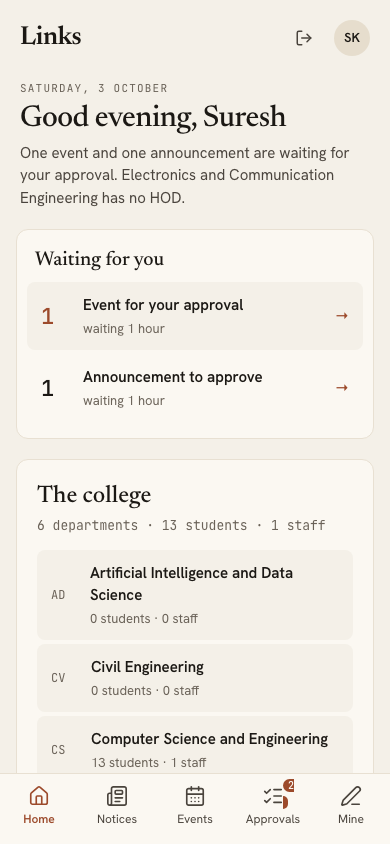
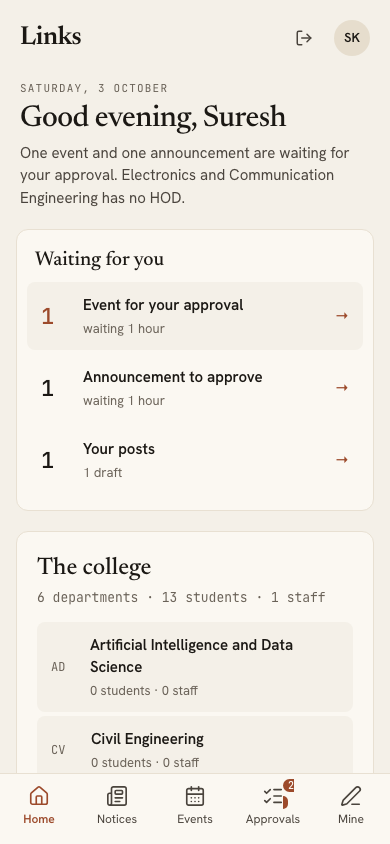
feat(client): show the person's own drafts on role Homes when they need them
Moving the HOD, principal and admin to their own Homes dropped today's
"Your announcements" panel. These roles mostly publish directly, so a full
panel isn't worth the space, but a forgotten draft or a post sent back with
a note still needs them: a "Your posts" row now joins Waiting for you (or To
do) only then, linking to My posts. The principal's side column also shows
what's coming up in the college again. Placement drives stay on the
Placement page, the placement office's job.

Claude-Session: https://claude.ai/code/session_01RGz1dUA7VMiYEDGyN4YNTK

diff --git a/client/src/features/home/components/RoleHomes.tsx b/client/src/features/home/components/RoleHomes.tsx
@@ -5,13 +5,15 @@ import { cn } from '@/lib/utils'
 import { buttonStyles } from '../../announcements/buttons'
 import { waited } from '../../announcements/status'
 import type { CollegeDepartment, Dashboard, DepartmentPanel, Lists } from '../api'
-import { summaryLine, type HomeKind } from '../roleHome'
+import { summaryLine, yourPosts, type HomeKind } from '../roleHome'
 
 type Props = {
   kind: Exclude<HomeKind, 'everyone'>
   data: Dashboard
   greeting: ReactNode
   notices: ReactNode
+  // The principal's side column also shows what's coming up in the college.
+  comingUp?: ReactNode
   now: Date
 }
 
@@ -19,7 +21,7 @@ type Props = {
 // their normal job (the "can vs normally does" principle): an HOD runs a
 // Department, the principal oversees the college, an admin keeps people and
 // lists in order. Latest notices sit beside it.
-export function RoleHome({ kind, data, greeting, notices, now }: Props) {
+export function RoleHome({ kind, data, greeting, notices, comingUp, now }: Props) {
   return (
     <>
       <header className="flex flex-col gap-3 px-1 lg:flex-row lg:items-end lg:justify-between lg:px-0">
@@ -48,7 +50,10 @@ export function RoleHome({ kind, data, greeting, notices, now }: Props) {
                 <div className="max-lg:order-first max-lg:-mt-0">
                   <WaitingForYou rows={principalWaiting(data, now)} />
                 </div>
-                <div className="max-lg:order-last">{notices}</div>
+                <div className="flex flex-col gap-5 max-lg:order-last lg:gap-6">
+                  {notices}
+                  {comingUp}
+                </div>
               </div>
             </Side>
           </>
@@ -124,6 +129,12 @@ function requestsRow(data: Dashboard, now: Date, to: string): WaitingRow[] {
   ]
 }
 
+// postsRow is the person's own drafts and posts sent back, when there are any.
+function postsRow(data: Dashboard): WaitingRow[] {
+  const posts = yourPosts(data.my_announcements)
+  return posts ? [{ count: posts.count, title: 'Your posts', detail: posts.detail, to: '/mine', action: 'Open' }] : []
+}
+
 function hodWaiting(data: Dashboard, now: Date): WaitingRow[] {
   const rows = requestsRow(data, now, '/approvals/access')
   const a = data.approvals
@@ -136,7 +147,7 @@ function hodWaiting(data: Dashboard, now: Date): WaitingRow[] {
       to: '/approvals',
     })
   }
-  return rows
+  return [...rows, ...postsRow(data)]
 }
 
 function principalWaiting(data: Dashboard, now: Date): WaitingRow[] {
@@ -159,7 +170,7 @@ function principalWaiting(data: Dashboard, now: Date): WaitingRow[] {
       to: '/approvals',
     })
   }
-  return rows
+  return [...rows, ...postsRow(data)]
 }
 
 function WaitingForYou({ rows }: { rows: WaitingRow[] }) {
@@ -385,6 +396,7 @@ function ToDo({ data, now }: { data: Dashboard; now: Date }) {
   if (queued > 0) {
     rows.push({ count: queued, title: 'In the approval queue', detail: "usually the principal's to approve", to: '/approvals', action: 'Open' })
   }
+  rows.push(...postsRow(data))
 
   return (
     <CountSection id="todo-h" title="To do" rows={rows} empty="Nothing needs you. Every department has an HOD and nobody is waiting to get in." />

diff --git a/client/src/features/home/roleHome.test.ts b/client/src/features/home/roleHome.test.ts
@@ -1,6 +1,6 @@
 import { describe, expect, it } from 'vitest'
 import type { Dashboard } from './api'
-import { homeKind, summaryLine } from './roleHome'
+import { homeKind, summaryLine, yourPosts } from './roleHome'
 
 const base: Dashboard = {
   user: { full_name: 'Asha Rao', roles: ['hod'], department: { id: 'd1', code: 'CS', name: 'Computer Science' } },
@@ -71,5 +71,19 @@ describe('summaryLine', () => {
 
   it('tells an admin who is waiting to get in', () => {
     expect(summaryLine('admin', { ...base, access_requests: { pending_count: 3, oldest_requested_at: null } })).toBe('Three people are waiting to get in.')
+  })
+})
+
+describe('yourPosts', () => {
+  const mine = (draft: number, rejected: number, edits = 0) => ({ draft, pending: 3, rejected, edits_waiting: edits })
+
+  it('shows what needs the person: drafts and posts sent back', () => {
+    expect(yourPosts(mine(1, 1))).toEqual({ count: 2, detail: '1 draft, 1 sent back with a note' })
+    expect(yourPosts(mine(2, 0))).toEqual({ count: 2, detail: '2 drafts' })
+  })
+
+  it('stays hidden when nothing needs them, even with posts waiting on others', () => {
+    expect(yourPosts(mine(0, 0, 2))).toBeNull()
+    expect(yourPosts(undefined)).toBeNull()
   })
 })

diff --git a/client/src/features/home/roleHome.ts b/client/src/features/home/roleHome.ts
@@ -64,3 +64,16 @@ export function summaryLine(kind: HomeKind, data: Dashboard): string {
 
   return ''
 }
+
+// yourPosts is the person's own posts that need them: drafts not yet sent
+// and posts sent back with a note. Posts waiting on someone else don't
+// count, so most days it is null and the row stays hidden.
+export function yourPosts(mine: Dashboard['my_announcements']): { count: number; detail: string } | null {
+  if (!mine) return null
+  const count = mine.draft + mine.rejected
+  if (count === 0) return null
+  const parts: string[] = []
+  if (mine.draft > 0) parts.push(`${mine.draft} ${mine.draft === 1 ? 'draft' : 'drafts'}`)
+  if (mine.rejected > 0) parts.push(`${mine.rejected} sent back with a note`)
+  return { count, detail: parts.join(', ') }
+}

diff --git a/client/src/features/home/pages/Home.tsx b/client/src/features/home/pages/Home.tsx
@@ -96,7 +96,16 @@ function HomeView({ data, now }: { data: Dashboard; now: Date }) {
 
   // The HOD, the principal and admins get a Home built around their job.
   if (kind !== 'everyone') {
-    return <RoleHome kind={kind} data={data} now={now} greeting={greetingLines} notices={<LatestNotices notices={notices.items} />} />
+    return (
+      <RoleHome
+        kind={kind}
+        data={data}
+        now={now}
+        greeting={greetingLines}
+        notices={<LatestNotices notices={notices.items} />}
+        comingUp={kind === 'principal' ? <ComingUp /> : undefined}
+      />
+    )
   }
 
   return (
